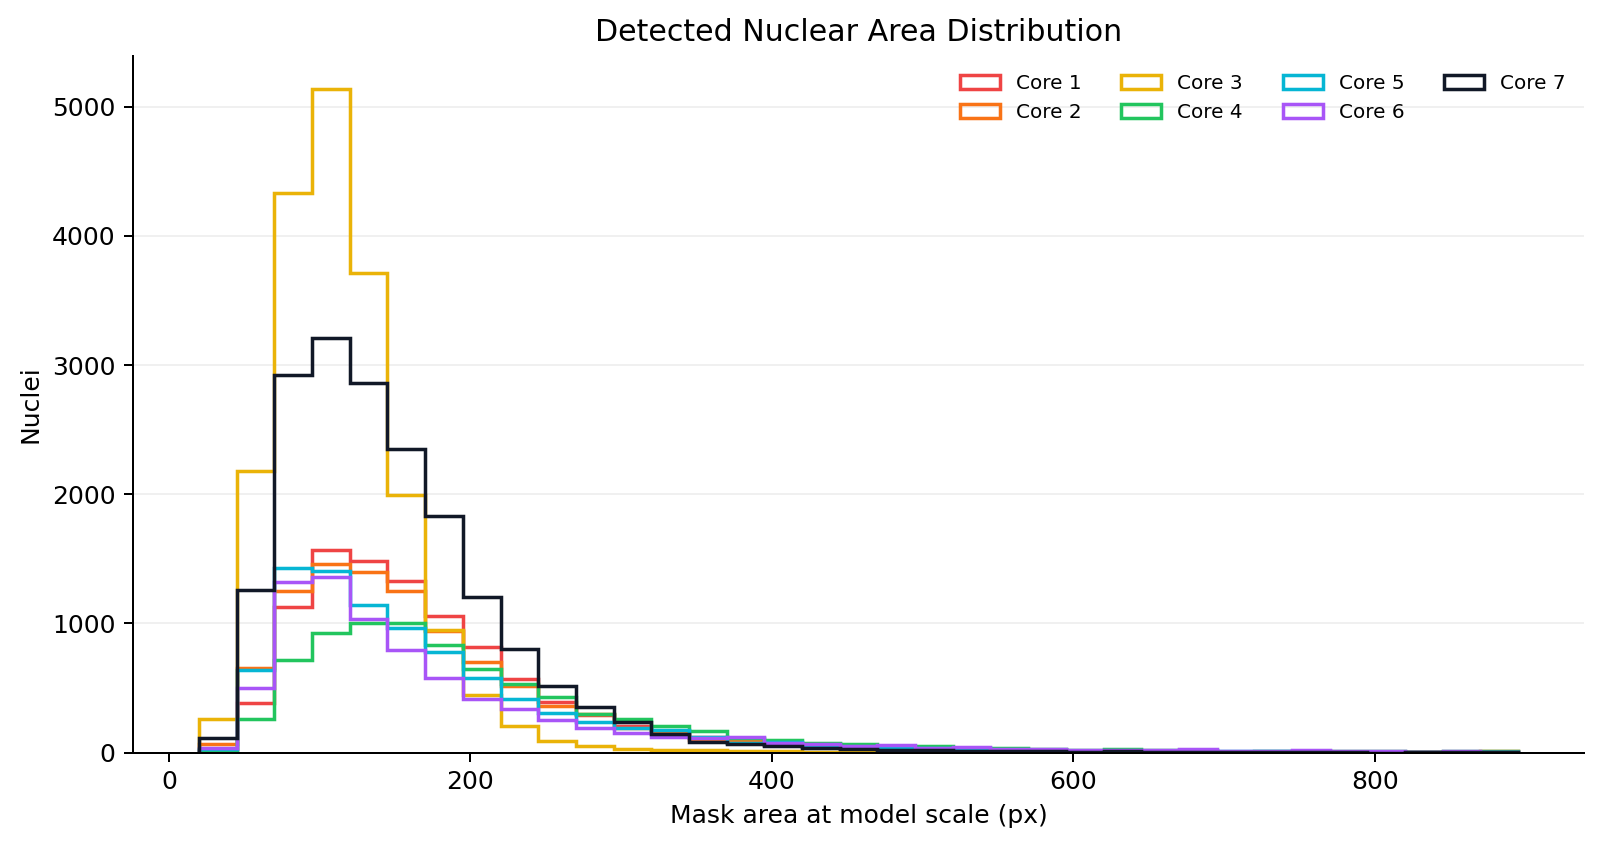
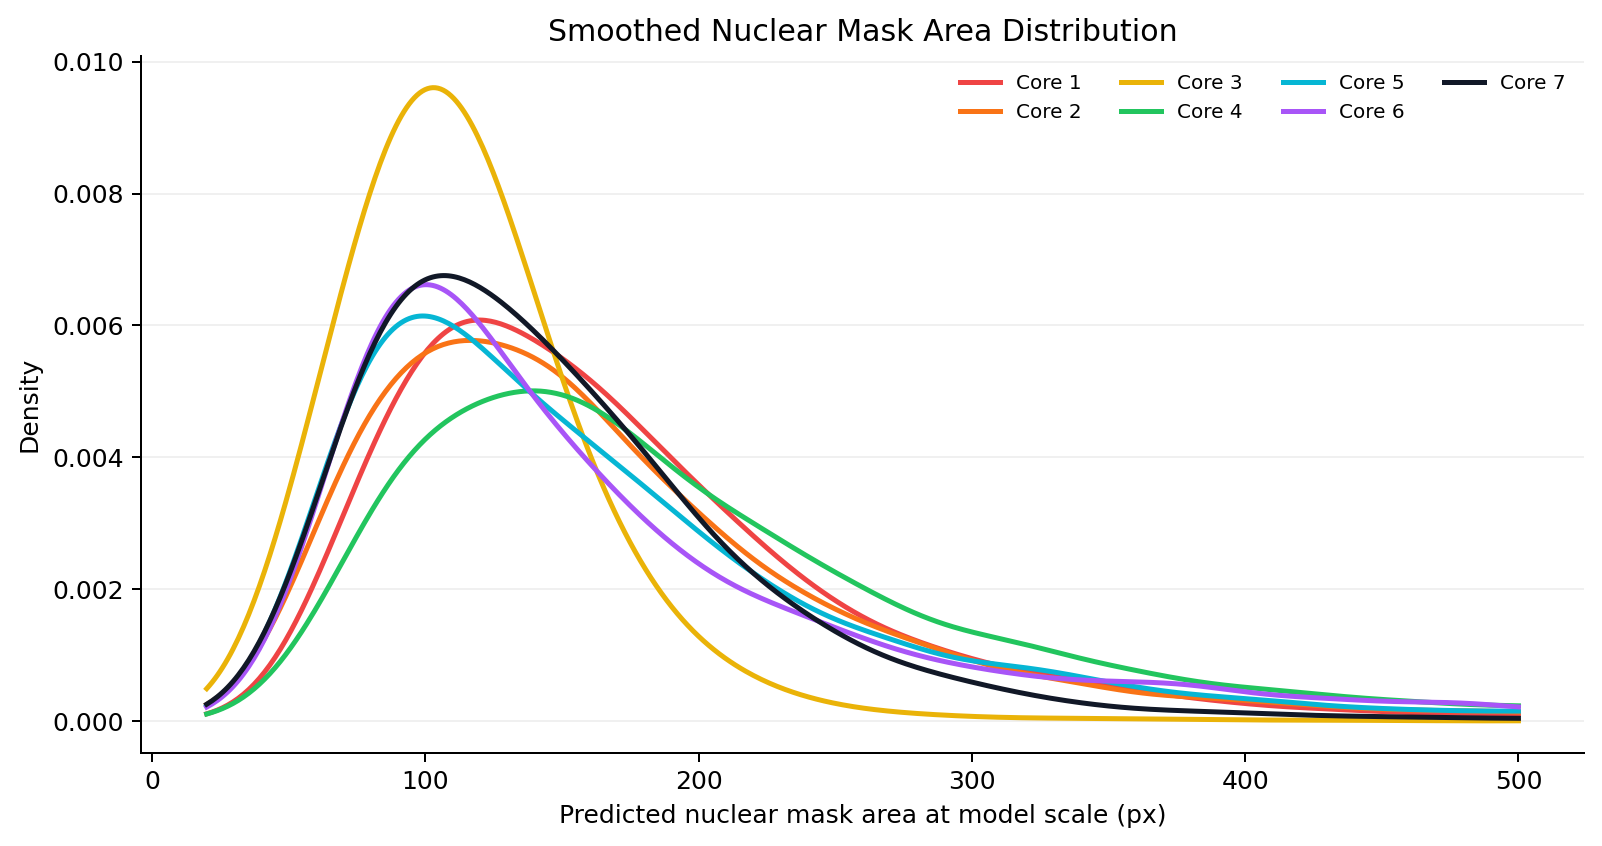
Simplify mask area visualization

diff --git a/scripts/create_publication_figures.py b/scripts/create_publication_figures.py
@@ -155,34 +155,23 @@ def save_density(data):
 def save_area_histogram(data):
     fig, ax = plt.subplots(figsize=(9, 4.8), dpi=180)
     colors = [data["cores"][f"core{i}"]["color"] for i in range(1, 8)]
+    grid = np.linspace(20, 500, 500)
+    bandwidth = 18.0
     for i in range(1, 8):
-        areas = [cell["area"] for cell in data["cores"][f"core{i}"]["cells"]]
-        ax.hist(areas, bins=np.arange(20, 901, 25), histtype="step", linewidth=1.4, color=colors[i - 1], label=f"Core {i}")
-    ax.set_title("Detected Nuclear Area Distribution")
-    ax.set_xlabel("Mask area at model scale (px)")
-    ax.set_ylabel("Nuclei")
+        areas = np.array([cell["area"] for cell in data["cores"][f"core{i}"]["cells"]], dtype=float)
+        if len(areas) == 0:
+            continue
+        density = np.exp(-0.5 * ((grid[:, None] - areas[None, :]) / bandwidth) ** 2).sum(axis=1)
+        density /= len(areas) * bandwidth * np.sqrt(2 * np.pi)
+        ax.plot(grid, density, linewidth=2.0, color=colors[i - 1], label=f"Core {i}")
+    ax.set_title("Smoothed Nuclear Mask Area Distribution")
+    ax.set_xlabel("Predicted nuclear mask area at model scale (px)")
+    ax.set_ylabel("Density")
     ax.spines[["top", "right"]].set_visible(False)
     ax.grid(axis="y", alpha=0.18)
     ax.legend(ncol=4, fontsize=8, frameon=False)
     fig.tight_layout()
     fig.savefig(FIG_DIR / "nuclear_area_histogram.png", bbox_inches="tight")
-    plt.close(fig)
-
-
-def save_patch_load_histogram(data):
-    fig, ax = plt.subplots(figsize=(9, 4.8), dpi=180)
-    colors = [data["cores"][f"core{i}"]["color"] for i in range(1, 8)]
-    for i in range(1, 8):
-        counts = [patch["n_cells"] for patch in data["patches"][f"core{i}"]["items"]]
-        ax.hist(counts, bins=np.arange(0, 1051, 50), histtype="step", linewidth=1.4, color=colors[i - 1], label=f"Core {i}")
-    ax.set_title("Patch-Level Nuclear Load Distribution")
-    ax.set_xlabel("Detected nuclei per displayed patch")
-    ax.set_ylabel("Patches")
-    ax.spines[["top", "right"]].set_visible(False)
-    ax.grid(axis="y", alpha=0.18)
-    ax.legend(ncol=4, fontsize=8, frameon=False)
-    fig.tight_layout()
-    fig.savefig(FIG_DIR / "patch_load_histogram.png", bbox_inches="tight")
     plt.close(fig)
 
 
@@ -196,7 +185,6 @@ def main():
     save_patch_grid(data, "core1")
     save_selected_patch(data, "core1", 1, 3)
     save_area_histogram(data)
-    save_patch_load_histogram(data)
     print(f"Saved figures to {FIG_DIR}")
 
 

diff --git a/README.md b/README.md
@@ -6,7 +6,7 @@ Scale-aware nuclear segmentation and interactive review for H&E tissue microarra
 
 This repository contains a complete analysis workflow for segmenting nuclei from a 40x TMA whole-slide image using the pretrained StarDist `2D_versatile_he` model. The final analysis uses `1-pathology core stained.svs`, scanned at `0.2522 um/px`, and normalizes image patches to approximately `0.5027 um/px` before StarDist inference so the nuclei are presented near the model's expected scale.
 
-The project outputs lightweight summary files and a self-contained HTML viewer for spatial review of cores, patches, and nuclei.
+The project outputs lightweight summary files and a self-contained HTML viewer for spatial review of cores, local image tiles, and nuclei.
 
 ![Overview with fitted core circles](docs/figures/overview_1path_cores.png)
 
@@ -20,15 +20,15 @@ The viewer includes:
 
 - seven fitted core regions on the slide overview
 - per-core high-resolution inspection
-- spatially ordered patch grids
-- clickable high-resolution patch popups
-- boundary show/hide and opacity controls inside the patch popup
+- spatially ordered local image-tile grids
+- clickable high-resolution tile popups
+- boundary show/hide and opacity controls inside the tile popup
 
 ![Core detail view](docs/figures/viewer_core_detail_core7.png)
 
-![Patch grid view](docs/figures/viewer_patch_grid_core1.png)
+![Tile grid view](docs/figures/viewer_patch_grid_core1.png)
 
-Selected patch example used for visual review: **Core 1, row 1, col 3**, containing **472 detected nuclei**.
+Selected tile example used for visual review: **Core 1, row 1, col 3**, containing **472 detected nuclei**.
 
 ![Selected high-resolution patch](docs/figures/viewer_selected_patch_core1_row1_col3.png)
 
@@ -40,11 +40,11 @@ Processing steps:
 2. Detect seven tissue cores from a low-resolution overview.
 3. Fit tight display circles for core-level visualization.
 4. Build stain-gated tissue masks so boundary tissue can be included without inflating the displayed circles.
-5. Tile each core using overlapping patches.
-6. Downsample 40x patches to approximately 20x-equivalent scale for StarDist.
+5. Tile each core using overlapping local image tiles.
+6. Downsample 40x tiles to approximately 20x-equivalent scale for StarDist.
 7. Run pretrained StarDist nuclear segmentation with per-core thresholds.
 8. Filter detections by tissue signal and nuclear mask size.
-9. Deduplicate detections across overlapping patch boundaries.
+9. Deduplicate detections across overlapping tile boundaries.
 10. Export CSV summaries, publication figures, and a self-contained HTML viewer.
 
 ## Results
@@ -67,13 +67,9 @@ The current tuned pipeline detected **82,032 nuclei** across seven cores.
 
 The tuned version increased sensitivity from **79,713** to **82,032** nuclei, a gain of **2,319 detections** or about **2.9%**. This should be interpreted as improved detection sensitivity, especially for small nuclei, not as a measured 2.9% accuracy improvement because no manually annotated ground truth is included.
 
-The selected review patch below is **Core 1, row 1, col 3**. The two distributions after it summarize nuclear mask size and patch-level nuclear load.
-
-![Selected patch for histogram context](docs/figures/viewer_selected_patch_core1_row1_col3.png)
+The selected review tile above is **Core 1, row 1, col 3**. The smoothed curve below summarizes the area of each predicted nuclear mask. Here, a mask means the closed StarDist-predicted nuclear region outlined in yellow in the viewer.
 
 ![Nuclear area histogram](docs/figures/nuclear_area_histogram.png)
-
-![Patch load histogram](docs/figures/patch_load_histogram.png)
 
 ## Practical Ceiling
 
@@ -95,7 +91,7 @@ The remaining errors are uncommon but expected for a pretrained model:
 - Very faint small nuclei may still be missed if their hematoxylin signal is weak.
 - The exported counts should be treated as computational estimates, not manual pathology-grade ground truth.
 
-These limitations are why the HTML viewer is part of the deliverable: it makes core-level and patch-level review transparent rather than hiding the model's residual uncertainty.
+These limitations are why the HTML viewer is part of the deliverable: it makes core-level and tile-level review transparent rather than hiding the model's residual uncertainty.
 
 ## Project Novelty
 
@@ -104,7 +100,7 @@ The useful contribution here is not a new neural network architecture, but a pra
 - 40x-to-model-scale normalization for pretrained StarDist inference
 - tight visual core circles combined with separate boundary-aware tissue inclusion
 - stain-gated filtering to reduce blank-space false positives
-- spatial patch grids that preserve tissue location
+- spatial image-tile grids that preserve tissue location
 - self-contained HTML review file requiring no server or Python environment
 - lightweight GitHub summaries suitable for sharing without committing large raw slides
 
@@ -125,7 +121,6 @@ docs/figures/
   core_counts_1path.png
   density_1path.png
   nuclear_area_histogram.png
-  patch_load_histogram.png
 
 results_1path_analysis/
   analysis_summary_1path.csv
